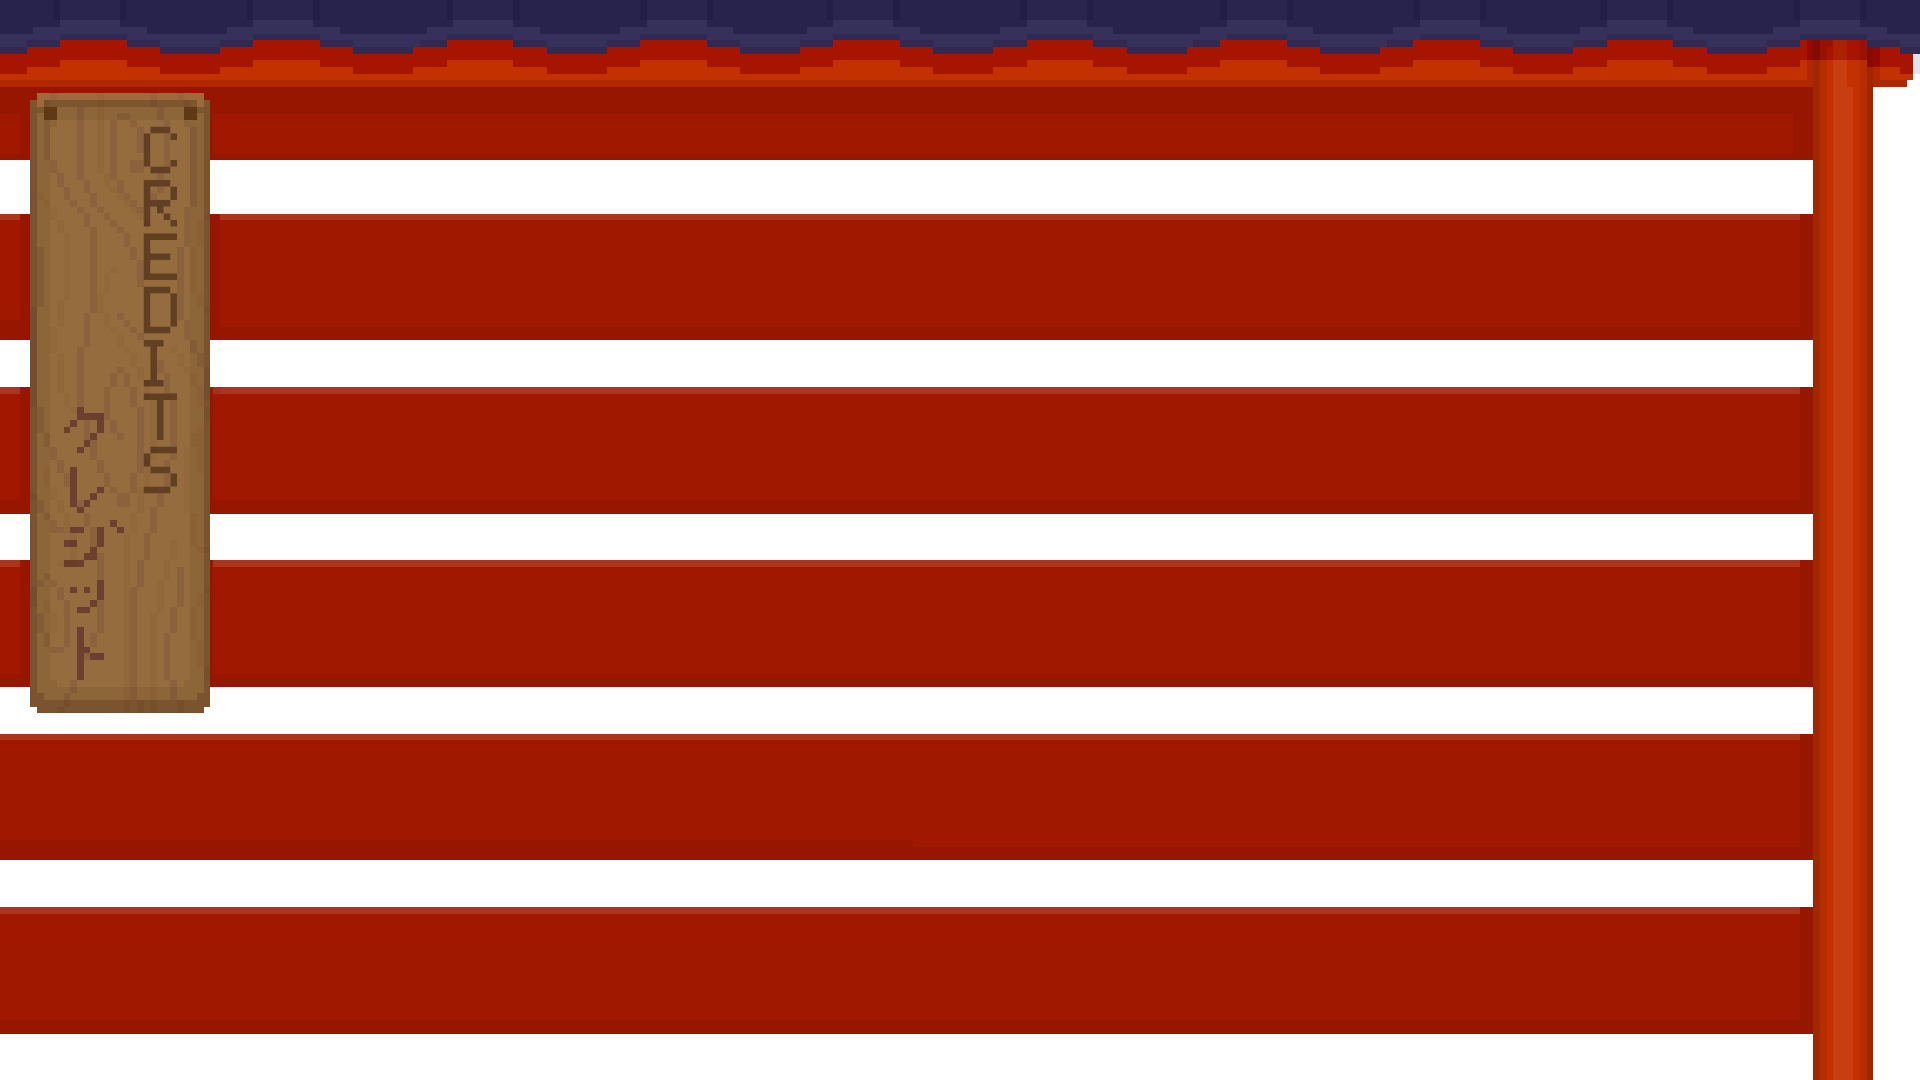
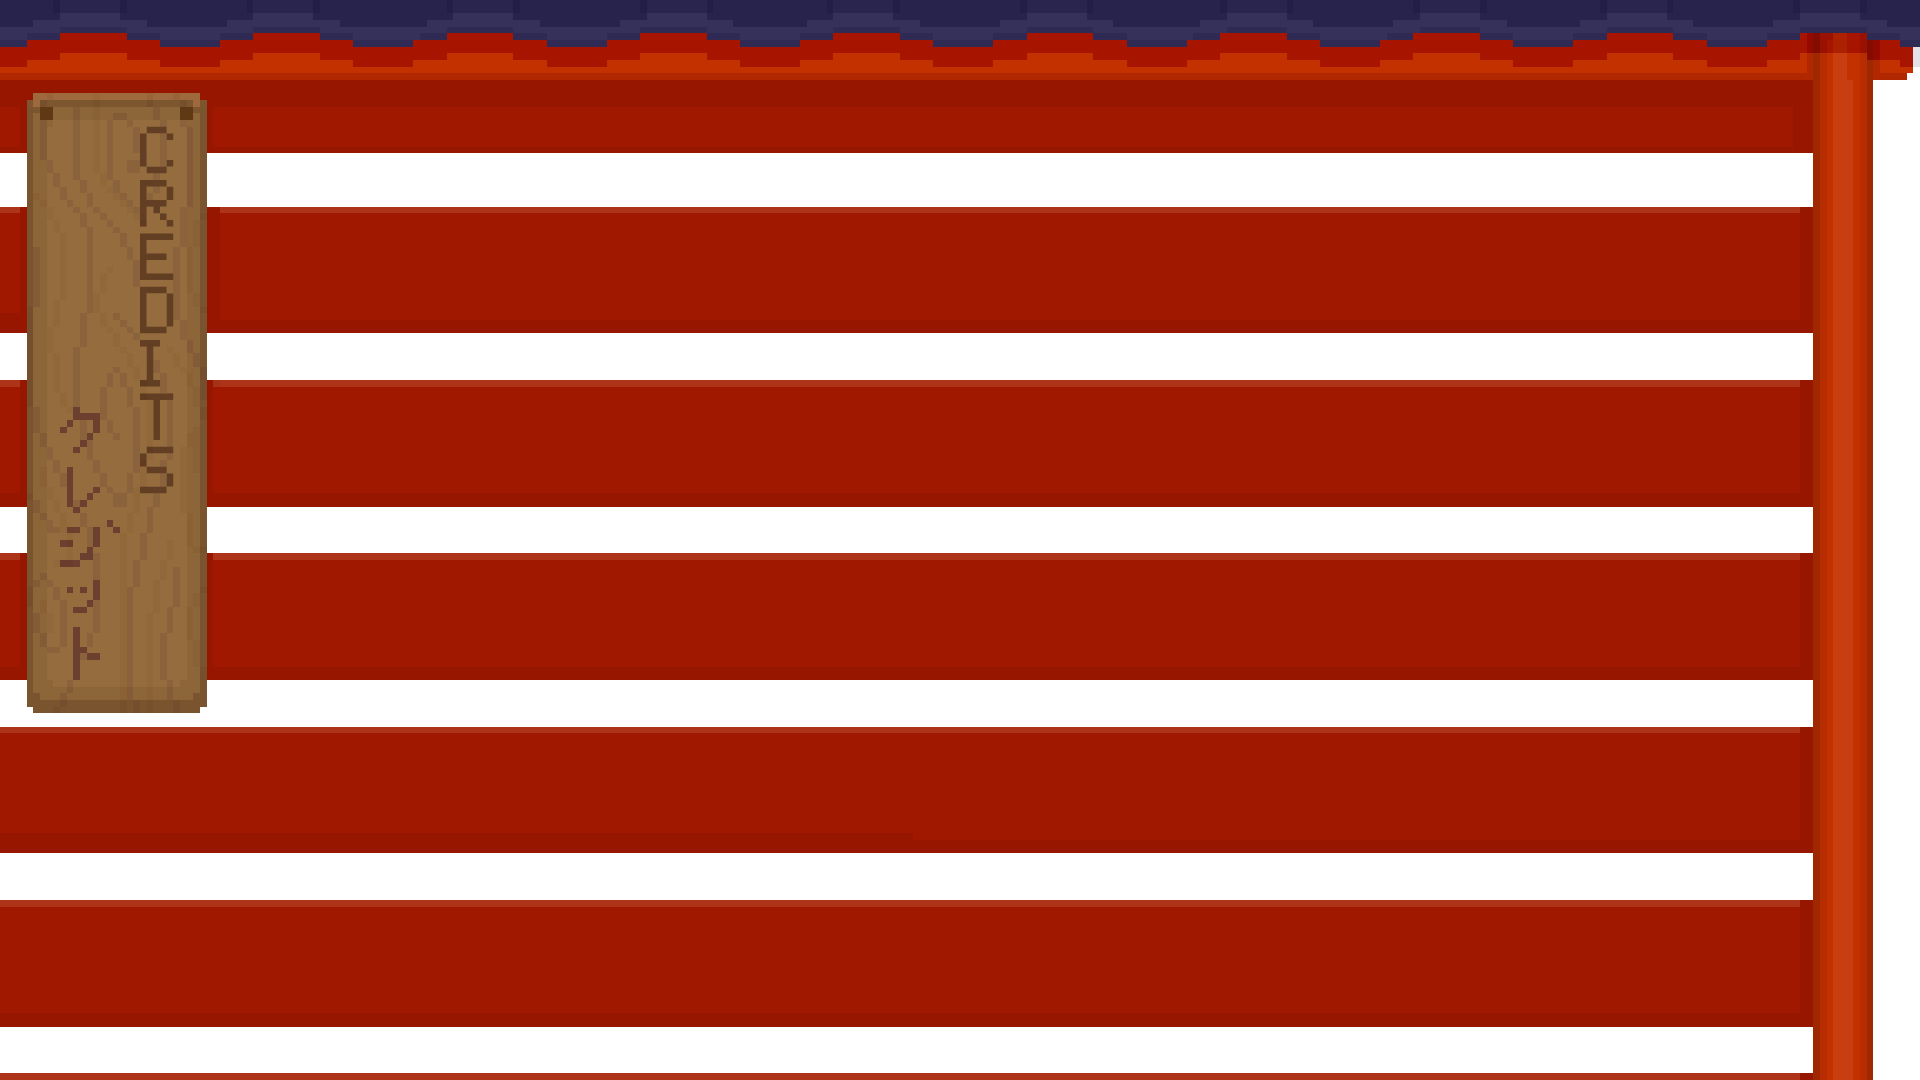
More Credits

diff --git a/Scripts/Scenes/CreditsScreen.cs b/Scripts/Scenes/CreditsScreen.cs
@@ -3,16 +3,37 @@ using System;
 
 public class CreditsScreen : SceneBase
 {
+	private int PageNum;
+	private TextureRect FirstPage;
+	private TextureRect SecondPage;
+	
 	// Called when the node enters the scene tree for the first time.
 	public override void _Ready()
 	{
 		base._Ready();
 		isGameplay = false;
+		
+		PageNum = 1;
+		FirstPage = GetNode<TextureRect>("FirstPage");
+		SecondPage = GetNode<TextureRect>("SecondPage");
 	}
 
 	public void _on_any_input_pressed()
 	{
-		GetTree().ChangeScene("res://Scenes/Start.tscn");
+		if (PageNum == 1)
+		{
+			FirstPage.Hide();
+			SecondPage.Show();
+			PageNum++;
+		}
+		else if (PageNum == 2)
+		{
+			PageNum = 1;
+			FirstPage.Show();
+			SecondPage.Hide();
+			GetTree().Paused = false;
+			Hide();
+		}
 	}
 	
 	public override void _Input(InputEvent @event)
@@ -22,9 +43,15 @@ public class CreditsScreen : SceneBase
 				_on_any_input_pressed();
 			}
 		}
-		if (@event is InputEventMouseButton eventMouseButton) {
-			_on_any_input_pressed();
-		}
+		//if (@event is InputEventMouseButton eventMouseButton) {
+		//	_on_any_input_pressed();
+		//}
 	}
-
+	private void _on_ContinueButton_pressed()
+	{
+		_on_any_input_pressed();
+	}
 }
+
+
+

diff --git a/Scripts/Scenes/StartScreen.cs b/Scripts/Scenes/StartScreen.cs
@@ -19,6 +19,8 @@ public class StartScreen : SceneBase
 	private const Option RIGHT_BOUND_OPTION = Option.Quit;
 
 	private Option optSel = Option.Start;
+	
+	private Node2D CreditsScreen;
 
 	// Called when the node enters the scene tree for the first time.
 	public override void _Ready()
@@ -30,6 +32,8 @@ public class StartScreen : SceneBase
 		normTexture = butSel.GetNormalTexture();
 		// highlight the new button
 		butSel.SetNormalTexture(butSel.GetHoverTexture());
+		
+		CreditsScreen = GetNode<Node2D>("CreditsScreen");
 	}
 
 	private void update_highlighted_button(Option next) {
@@ -44,12 +48,6 @@ public class StartScreen : SceneBase
 		butSel = butNext;
 	}
 
-	// Called every frame. 'delta' is the elapsed time since the previous frame.
-	// public override void _Process(float delta)
-	// {
-
-	// }
-
 	public void _on_StartButton_pressed()
 	{
 		GetTree().ChangeScene("res://Scenes/World.tscn");
@@ -62,7 +60,8 @@ public class StartScreen : SceneBase
 
 	public void _on_CreditsButton_pressed()
 	{
-		GetTree().ChangeScene("res://Scenes/Credits.tscn");
+		CreditsScreen.Show();
+		GetTree().Paused = true;
 	}
 
 	public override void _UnhandledInput(InputEvent @event)
